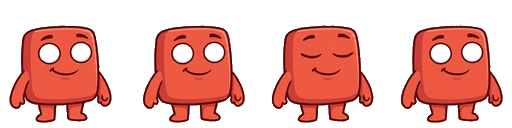
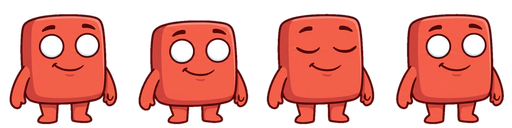
feat: regenerate sprites with magenta chroma key, remove helmet variants
- Regenerate all 5 character poses using magenta (#FF00FF) background
  for cleaner chroma key removal with edge feathering and color
  decontamination — eliminates white dot artifacts
- Remove all 5 helmet sprite variants (helmet will be rendered
  programmatically in Three.js if needed later)
- Remove helmet texture loading and switching from CharacterRenderer
- Slow idle animation from 0.25s to 0.5s per frame to reduce flickering

Changed region(s): [[0.0, 0.0938, 1.0, 0.9688], [0.0, 0.5, 0.0625, 0.7188]]

diff --git a/public/js/rendering/threejs/CharacterRenderer.js b/public/js/rendering/threejs/CharacterRenderer.js
@@ -18,7 +18,7 @@ const AFTERIMAGE_COUNT = 4;
 
 // Animation: 4 frames per sheet, cycle rate in seconds
 const FRAME_COUNT = 4;
-const IDLE_FRAME_DURATION = 0.25;
+const IDLE_FRAME_DURATION = 0.5;
 const ACTION_FRAME_DURATION = 0.12;
 
 // Sprite quad size in world units — larger than entity hitbox (40×40)
@@ -41,7 +41,7 @@ export class CharacterRenderer {
     this.group = new THREE.Group();
 
     // --- Sprite textures (loaded async) ---
-    this._textures = {}; // { 'idle': tex, 'idle-helmet': tex, ... }
+    this._textures = {}; // { 'idle': tex, 'charging': tex, ... }
     this._texturesReady = false;
     this._loadTextures();
 
@@ -116,7 +116,6 @@ export class CharacterRenderer {
     // Track state
     this._currentPose = '';
     this._currentExpression = '';
-    this._currentHelmet = false;
     this._frameIndex = 0;
     this._frameTimer = 0;
     this._lastTime = 0;
@@ -125,7 +124,7 @@ export class CharacterRenderer {
   /** Load all sprite sheet textures. */
   _loadTextures() {
     const loader = new THREE.TextureLoader();
-    let pending = POSES.length * 2;
+    let pending = POSES.length;
 
     const onComplete = () => {
       pending--;
@@ -138,7 +137,6 @@ export class CharacterRenderer {
     };
 
     for (const pose of POSES) {
-      // No helmet
       const tex = loader.load(ASSET_BASE + pose + '.png', onComplete, undefined, () =>
         onError(ASSET_BASE + pose + '.png'),
       );
@@ -149,16 +147,6 @@ export class CharacterRenderer {
       tex.repeat.set(0.25, -1);
       tex.offset.set(0, 1);
       this._textures[pose] = tex;
-
-      // Helmet variant
-      const helmetUrl = ASSET_BASE + pose + '-helmet.png';
-      const helmetTex = loader.load(helmetUrl, onComplete, undefined, () => onError(helmetUrl));
-      helmetTex.magFilter = THREE.NearestFilter;
-      helmetTex.minFilter = THREE.NearestFilter;
-      helmetTex.colorSpace = THREE.SRGBColorSpace;
-      helmetTex.repeat.set(0.25, -1);
-      helmetTex.offset.set(0, 1);
-      this._textures[pose + '-helmet'] = helmetTex;
     }
   }
 
@@ -214,7 +202,7 @@ export class CharacterRenderer {
   update(character, options = {}) {
     if (!character || !this._texturesReady) return;
 
-    const { planetIndex = 0, power = 0, time = 0 } = options;
+    const { power = 0, time = 0 } = options;
     const dt = time - this._lastTime;
     this._lastTime = time;
 
@@ -233,13 +221,11 @@ export class CharacterRenderer {
     // --- Determine expression and pose ---
     const expression = this._resolveExpression(character, power);
     const pose = this._expressionToPose(expression);
-    const useHelmet = planetIndex > 0;
+    const texKey = pose;
 
-    // --- Swap sprite texture if pose/helmet changed ---
-    const texKey = useHelmet ? pose + '-helmet' : pose;
-    if (pose !== this._currentPose || useHelmet !== this._currentHelmet) {
+    // --- Swap sprite texture if pose changed ---
+    if (pose !== this._currentPose) {
       this._currentPose = pose;
-      this._currentHelmet = useHelmet;
       this._spriteMat.map = this._textures[texKey] || null;
       this._spriteMat.needsUpdate = true;
       // Reset animation frame
@@ -423,7 +409,7 @@ export class CharacterRenderer {
     ) {
       // Force the blink frame (frame index 2 = third frame with closed eyes)
       this._frameIndex = 2;
-      const texKey = this._currentHelmet ? this._currentPose + '-helmet' : this._currentPose;
+      const texKey = this._currentPose;
       const tex = this._textures[texKey];
       if (tex) tex.offset.x = 2 * 0.25;
 
